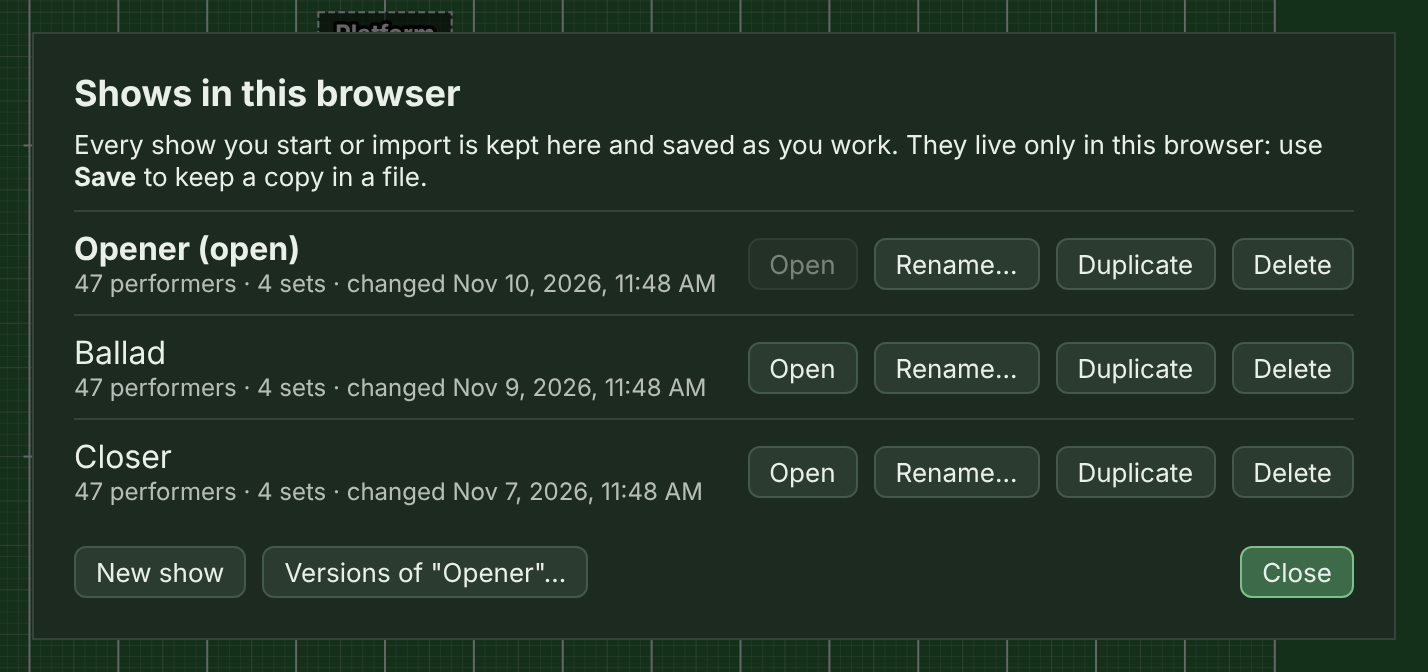
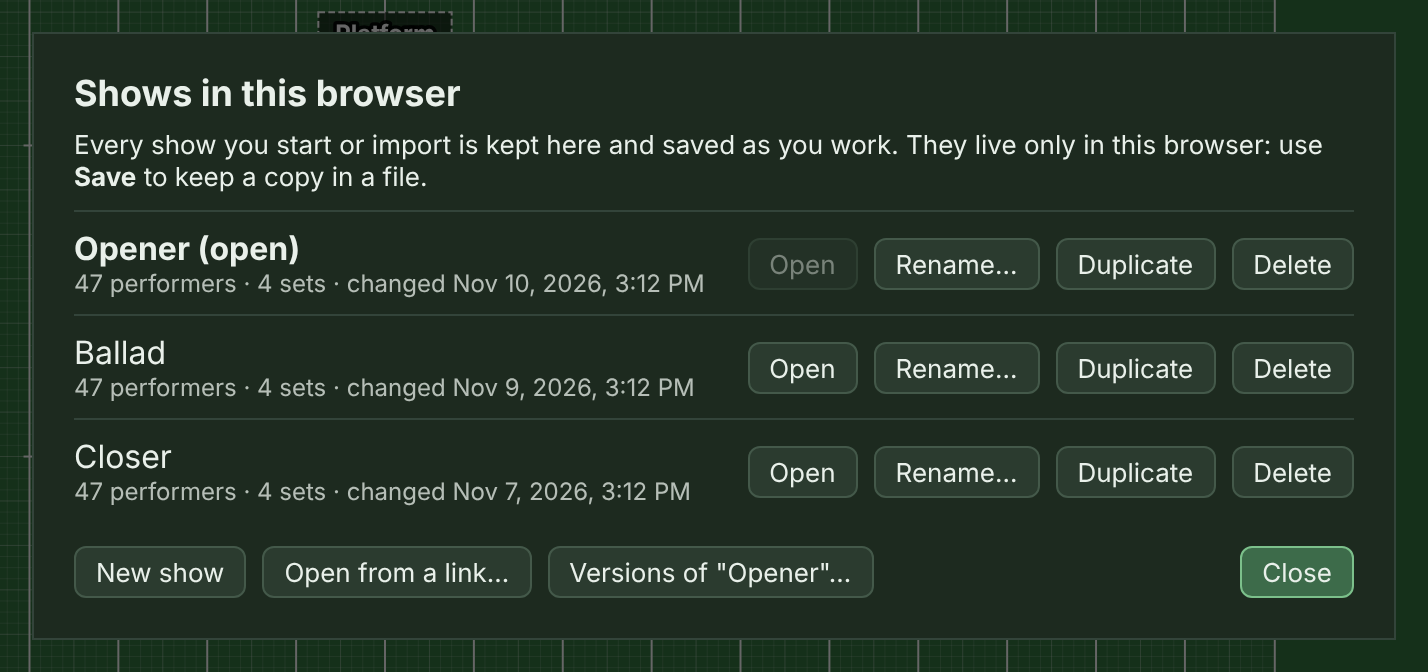
A new device keeps the same phone link: Full backup, a publishing code, and Open from a link
Claude-Session: https://claude.ai/code/session_012ak5ZVHEpD9G47FepvLhFK

diff --git a/src/perform/ShareDialog.tsx b/src/perform/ShareDialog.tsx
@@ -6,25 +6,14 @@ import { synced } from '../engine/music';
 import { getAudio } from '../ui/audioStore';
 import { useDialog } from '../ui/useDialog';
 import { checkRepo, fileNameFor, publishFile, REPO_RE, type GitHubTarget } from '../engine/github';
-import { cloudUrl, publishCloud, unpublishCloud, type CloudShow } from '../engine/cloud';
+import { cloudUrl, publishCloud, publishingCode, readPublishingCode, unpublishCloud, type CloudShow } from '../engine/cloud';
+import { getPublishing, loadCloud, loadLinks, saveCloud, saveLink, setPublishing } from '../ui/publishing';
 
 // The director's GitHub repository and token for one-click publishing, kept only in this browser.
 const GH = 'freeform:github';
 const loadGh = (): GitHubTarget | null => { try { const g = JSON.parse(localStorage.getItem(GH) ?? 'null'); return g && typeof g.token === 'string' && REPO_RE.test(g.repo) ? g : null; } catch { return null; } };
 const saveGh = (g: GitHubTarget | null) => { try { if (g) localStorage.setItem(GH, JSON.stringify(g)); else localStorage.removeItem(GH); } catch { /* not remembered */ } };
 
-// Shows published through FreeFORM's service, per show in this browser: the service's id and the edit token that lets
-// this browser update or remove it (the key is in the link, as for any hosted show).
-const CLOUD = 'freeform:cloud';
-const loadCloud = (): Record<string, CloudShow> => { try { return JSON.parse(localStorage.getItem(CLOUD) ?? '{}') ?? {}; } catch { return {}; } };
-const saveCloud = (id: string, c: CloudShow | null) => {
-  try { const all = loadCloud(); if (c) all[id] = { id: c.id, token: c.token }; else delete all[id]; localStorage.setItem(CLOUD, JSON.stringify(all)); } catch { /* not remembered */ }
-};
-
-// Hosted links are remembered per show in this browser: by its id, or by title for a show from before ids (and links saved before ids).
-const LINKS = 'freeform:hosted-links';
-const loadLinks = (): Record<string, string> => { try { return JSON.parse(localStorage.getItem(LINKS) ?? '{}') ?? {}; } catch { return {}; } };
-const saveLink = (id: string, link: string) => { try { localStorage.setItem(LINKS, JSON.stringify({ ...loadLinks(), [id]: link })); } catch { /* not remembered */ } };
 // The key of a locked file downloaded but not yet linked: kept from the moment it's made, so closing the dialog to upload
 // the file doesn't lose it (a lost key leaves the uploaded file unopenable).
 const KEYS = 'freeform:pending-keys';
@@ -115,12 +104,21 @@ export function ShareDialog({ show, onClose, setRevision }: { show: Show; onClos
         : `Published revision ${s.revision}, ${at}. Phones that already have the show get this version the next time they open it (within a minute or so).`);
     } catch (e) { setBusy(`✗ ${e instanceof Error ? e.message : String(e)}`); }
   };
+  // Moving to another device: the publishing code carries the link and the edit token (Full backup carries them too).
+  const [code, setCode] = useState('');
+  const takeCode = () => {
+    const p = readPublishingCode(code);
+    if (!p) { setBusy("✗ That isn't a FreeFORM publishing code. Copy the whole code from the other device."); return; }
+    if (p.show?.id && p.show.id !== show.id && !confirm(`This code is for "${p.show.title || 'another show'}", and the show open here is "${show.title}". Publishing here would replace that show on phones with this one. Use it anyway?`)) return;
+    setPublishing(sid, p); setCloud(p.cloud ?? null); setField(p.link); setMadeKey(null); saveKey(null); setCode('');
+    setBusy(p.cloud ? 'Done: this browser can now update that link. Click Publish update after your edits.' : 'Done: this browser has the link. To update it, publish the file where it was hosted before.');
+  };
   const stopSharing = async () => {
     if (!cloud || !confirm('Take this show off FreeFORM’s service? The link stops working. Phones that already have the show keep the copy they have, but get no more updates.')) return;
     setBusy('Taking it offline…');
     try {
       await unpublishCloud(cloud);
-      saveCloud(sid, null); setCloud(null); setField(''); setMadeKey(null); saveKey(null);
+      saveCloud(sid, null); saveLink(sid, null); setCloud(null); setField(''); setMadeKey(null); saveKey(null);
       setBusy('Taken offline. Publish again for a new link.');
     } catch (e) { setBusy(`✗ ${e instanceof Error ? e.message : String(e)}`); }
   };
@@ -198,6 +196,30 @@ export function ShareDialog({ show, onClose, setRevision }: { show: Show; onClos
               link</strong> (say, a student leaves the program), click <strong>Stop sharing</strong>, then publish again for a new link.
             </p>
           </>}
+          {onService && cloud && hosted && (
+            <details style={{ margin: '10px 0 0' }}>
+              <summary>Use on another device</summary>
+              <p style={small}>
+                Got a new computer or iPad? This code lets it keep updating this same link, so students don't need a new one. Copy it
+                (email it to yourself, say), then on the new device open this show from a Full backup or with <strong>Shows… → Open from a link</strong>, and
+                paste the code there. <strong>Keep it private:</strong> like the link, it's a password, and it can also change the show.
+                A <strong>Full backup</strong> file carries it too.
+              </p>
+              <textarea aria-label="Publishing code" readOnly rows={3} value={publishingCode(getPublishing(sid, show.title) ?? { link: hosted, cloud })} onFocus={(e) => e.currentTarget.select()}
+                style={{ width: '100%', boxSizing: 'border-box', font: 'inherit', fontSize: 11 }} />
+              <div style={{ display: 'flex', justifyContent: 'flex-end' }}><button onClick={() => copy(publishingCode(getPublishing(sid, show.title) ?? { link: hosted, cloud }))}>Copy publishing code</button></div>
+            </details>
+          )}
+          {!onService && (
+            <details style={{ margin: '10px 0 0' }}>
+              <summary>Published this show from another device?</summary>
+              <p style={small}>Paste the publishing code from that device (under <strong>Use on another device</strong> there), and this browser can update the same link.</p>
+              <div style={{ display: 'flex', gap: 6 }}>
+                <input aria-label="Paste a publishing code" placeholder="FREEFORM-PUBLISHING-1.…" value={code} onChange={(e) => setCode(e.target.value)} style={{ flex: 1, font: 'inherit', fontSize: 12 }} />
+                <button disabled={!code.trim()} onClick={takeCode}>Use code</button>
+              </div>
+            </details>
+          )}
           <details style={{ margin: '10px 0' }}>
             <summary>Other ways to host it</summary>
             <p style={small}>The same locked file, kept somewhere of your own instead of FreeFORM's service.</p>

diff --git a/src/App.tsx b/src/App.tsx
@@ -28,6 +28,9 @@ import { usePlayback } from './ui/usePlayback';
 import { clickWanted, setClickWanted, wakeClick } from './ui/click';
 import { VideoDialog } from './ui/VideoExport';
 import { FeedbackDialog } from './ui/Feedback';
+import { readPublishing, readPublishingCode, type Publishing } from './engine/cloud';
+import { getPublishing, setPublishing } from './ui/publishing';
+import { decodeShow, fetchHosted, linkHash, SHARE_PREFIX } from './engine/share';
 import { PrintDialog } from './print/Print';
 import { ShareDialog } from './perform/ShareDialog';
 import { PALETTE, useTheme } from './ui/palette';
@@ -740,14 +743,15 @@ export function App() {
    */
   const saveTo = async (inPlace: boolean, full = false): Promise<boolean> => {
     const name = `${show.title.replace(/[^\w\- ]+/g, '').trim() || 'show'}${full ? ' full backup' : ''}.freeform`;
-    let attached: { audio?: Attached; picture?: Attached } | undefined;
+    let attached: { audio?: Attached; picture?: Attached; publishing?: Publishing } | undefined;
     if (full) {
       const pack = async (id: string | undefined, kind: 'audio' | 'image', fallback: string) => {
         const b = id ? await getAudio(id) : undefined;
         return b ? { type: new RegExp(`^${kind}/[\\w.+-]{1,40}$`).test(b.type) ? b.type : fallback, data: await toBase64(b) } : undefined;
       };
       const audio = await pack(show.music?.audioId, 'audio', 'audio/mpeg'), picture = await pack(show.trace?.id, 'image', 'image/png');
-      attached = { ...(audio ? { audio } : {}), ...(picture ? { picture } : {}) };
+      const publishing = getPublishing(show.id ?? show.title, show.title); // so a new computer keeps updating the same link
+      attached = { ...(audio ? { audio } : {}), ...(picture ? { picture } : {}), ...(publishing ? { publishing } : {}) };
     }
     const blob = new Blob([JSON.stringify(attached ? { ...show, attached } : show, null, 2)], { type: 'application/octet-stream' }); // not JSON's type: Safari would add ".json"
     const file = new File([blob], name, { type: blob.type });
@@ -791,6 +795,8 @@ export function App() {
       const taken = !s.id || (await listShows()).some((x) => x.id === s.id);
       if (taken) s = { ...s, id: newShowId() };
       if ('audio' in r || 'picture' in r || taken) s = await ownFiles(s, r.audio && fromAttached(r.audio), r.picture && fromAttached(r.picture));
+      const pub = 'publishing' in r ? readPublishing(r.publishing) : null;
+      if (pub && s.id && !getPublishing(s.id)) setPublishing(s.id, pub); // a Full backup from another computer: keep publishing to the same link
       openShow(s, true); setFileError(''); // what's open is the file itself
     } catch (err) {
       setFileError(err instanceof Error ? err.message : String(err));
@@ -814,6 +820,23 @@ export function App() {
     flush,
     fresh: () => fresh().then(() => setLibrary(false)),
     open: async (id) => { const s = await loadShow(id); await flush(); openShow(s); setLibrary(false); },
+    // Open a show from a phone link or a publishing code: recovers the drill (the link holds the key that unlocks it), and
+    // with a publishing code, keeps updating the same link from here.
+    openLink: async (text) => {
+      const code = readPublishingCode(text), hash = code ? code.link.slice(code.link.indexOf('#')) : linkHash(text);
+      if (!hash) throw new Error("That isn't a FreeFORM link or publishing code. Paste the whole link students open, or the publishing code.");
+      const got = hash.startsWith(SHARE_PREFIX) ? { show: await decodeShow(hash.slice(SHARE_PREFIX.length)), audio: undefined } : await fetchHosted(hash);
+      let s = got.show;
+      await flush();
+      if (!s.id || (await listShows()).some((x) => x.id === s.id)) s = { ...s, id: newShowId() }; // already here: a copy beside it
+      s = await ownFiles(s, got.audio);
+      if (code) setPublishing(s.id!, code);
+      else if (!hash.startsWith(SHARE_PREFIX)) setPublishing(s.id!, { link: location.origin + location.pathname + hash }); // the link, without the token to update it
+      openShow(s); setLibrary(false);
+      setNotice({ t: 0, text: code ? `Opened "${s.title}". This browser can keep updating the same link: Share…, then Publish update.`
+        : hash.startsWith(SHARE_PREFIX) ? `Opened "${s.title}" from a share link. Performers' names aren't in share links, so add them again in Roster.`
+        : `Opened "${s.title}". To keep updating the same link from here, paste the publishing code from the device that published it (Share…, Keep phones up to date). Publishing without it makes a new link.` }); // over the field, where the show just opened
+    },
     rename: async (id, title) => {
       if (id === show.id) { setShow((s) => ({ ...s, title })); await keepShow({ ...show, title }); }
       else await keepShow({ ...(await loadShow(id)), title });

diff --git a/src/ui/Shows.tsx b/src/ui/Shows.tsx
@@ -7,6 +7,7 @@ import { listShows, listVersions, type Entry, type Listed } from './showStore';
 /** What the dialog asks the editor to do; each returns once it's done, so the list can be read again. */
 export interface ShowActions {
   open: (id: string) => Promise<void>;
+  openLink: (text: string) => Promise<void>; // a phone link or a publishing code
   fresh: () => Promise<void>;
   rename: (id: string, title: string) => Promise<void>;
   duplicate: (id: string) => Promise<void>;
@@ -24,6 +25,7 @@ export function ShowsDialog({ show, act, onClose }: { show: Show; act: ShowActio
   const [shows, setShows] = useState<Listed[] | null>(null);
   const [versions, setVersions] = useState<Entry[] | null>(null); // the versions view, when open
   const [error, setError] = useState('');
+  const [link, setLink] = useState<string | null>(null); // Open from a link: the box's text, while it's open
   const list = () => listShows().then(setShows, () => { setShows([]); setError("This browser wouldn't read its saved shows (its storage may be turned off)."); });
   // The open show goes into the library first, so the list is current. Only here: right after an action the editor may not have caught up.
   useEffect(() => { act.flush().then(list); }, [show.id]); // eslint-disable-line react-hooks/exhaustive-deps
@@ -54,8 +56,20 @@ export function ShowsDialog({ show, act, onClose }: { show: Show; act: ShowActio
               </div>
             );
           })}
+          {link !== null && (
+            <div style={{ ...rowStyle, flexWrap: 'wrap' }}>
+              <p style={{ margin: 0, fontSize: 13, width: '100%' }}>
+                Paste a link students open (a share link or a <strong>Keep phones up to date</strong> link), or a publishing code from another device.
+                The show opens here as a show of its own. With a publishing code, this browser can keep updating the same link.
+              </p>
+              <input aria-label="Link or publishing code" autoFocus value={link} onChange={(e) => setLink(e.target.value)} placeholder="https://freeformdrill.org/app/#load=… or FREEFORM-PUBLISHING-1.…" style={{ flex: 1, minWidth: 200 }} />
+              <button className="primary" disabled={!link.trim()} onClick={() => { setError(''); act.openLink(link).catch((e) => setError(e instanceof Error ? e.message : String(e))); }}>Open</button>
+              <button onClick={() => setLink(null)}>Cancel</button>
+            </div>
+          )}
           <div style={{ display: 'flex', gap: 8, marginTop: 12, flexWrap: 'wrap' }}>
             <button onClick={doing(act.fresh)}>New show</button>
+            <button onClick={() => setLink('')} title="Open a show from a link students use, or from a publishing code (a new computer)">Open from a link…</button>
             <button onClick={showVersions} title="Earlier copies of the open show, kept as you work">Versions of "{show.title || 'Untitled show'}"…</button>
             <span style={{ flex: 1 }} />
             <button className="primary" onClick={onClose}>Close</button>

diff --git a/src/engine/cloud.ts b/src/engine/cloud.ts
@@ -39,3 +39,36 @@ export async function unpublishCloud(c: CloudShow, fetcher: typeof fetch = fetch
   const r = await call(`/shows/${c.id}`, { method: 'DELETE', headers: { Authorization: `Bearer ${c.token}` } }, fetcher);
   if (!r.ok && r.status !== 404) throw new Error(await why(r));
 }
+
+/**
+ * Everything a browser needs to keep publishing a show to the same link: the link (with its key) and, for a show on
+ * FreeFORM's service, its id and edit token. Carried by Full backup files and by a publishing code, so a director who
+ * moves to a new computer mid-season keeps the link students already have. Like the link, it's a password.
+ */
+export interface Publishing { link: string; cloud?: CloudShow; show?: { id?: string; title?: string } }
+
+const PREFIX = 'FREEFORM-PUBLISHING-1.';
+const ID_RE = /^[A-Za-z0-9_-]{22}$/, TOKEN_RE = /^[A-Za-z0-9_-]{43}$/;
+const b64url = (t: string) => { let bin = ''; for (const b of new TextEncoder().encode(t)) bin += String.fromCharCode(b); return btoa(bin).replace(/\+/g, '-').replace(/\//g, '_').replace(/=+$/, ''); };
+const unb64url = (t: string) => new TextDecoder().decode(Uint8Array.from(atob(t.replace(/-/g, '+').replace(/_/g, '/')), (c) => c.charCodeAt(0)));
+
+/** Checked publishing info from a file or code (they come from outside), or null. The link must be a hosted (#load=) link with a key. */
+export function readPublishing(x: unknown): Publishing | null {
+  const p = x as Publishing;
+  if (!p || typeof p !== 'object' || typeof p.link !== 'string' || p.link.length > 2000 || !/^(https:\/\/[^\s#]+|http:\/\/localhost(:\d+)?\/[^\s#]*)#load=[^\s&]+&key=[A-Za-z0-9_-]{43}$/.test(p.link)) return null; // the app's address (localhost while developing)
+  const cloud = p.cloud && typeof p.cloud === 'object' && ID_RE.test(p.cloud.id) && TOKEN_RE.test(p.cloud.token) ? { id: p.cloud.id, token: p.cloud.token } : undefined;
+  if (p.cloud !== undefined && !cloud) return null;
+  if (cloud && !p.link.includes(encodeURIComponent(cloudUrl(cloud.id)))) return null; // the token must belong to the link's show
+  const show = p.show && typeof p.show === 'object' ? { id: typeof p.show.id === 'string' ? p.show.id.slice(0, 64) : undefined, title: typeof p.show.title === 'string' ? p.show.title.slice(0, 200) : undefined } : undefined;
+  return { link: p.link, ...(cloud ? { cloud } : {}), ...(show ? { show } : {}) };
+}
+
+/** The publishing code to copy to another device. */
+export const publishingCode = (p: Publishing) => PREFIX + b64url(JSON.stringify(p));
+
+/** A pasted publishing code (spaces and line breaks from an email are fine), or null if it isn't one. */
+export function readPublishingCode(text: string): Publishing | null {
+  const m = text.replace(/\s+/g, '').match(/FREEFORM-PUBLISHING-1\.([A-Za-z0-9_-]+)/);
+  if (!m) return null;
+  try { return readPublishing(JSON.parse(unb64url(m[1]))); } catch { return null; }
+}

diff --git a/src/engine/show.ts b/src/engine/show.ts
@@ -912,7 +912,7 @@ const B64_RE = /^[A-Za-z0-9+/]*={0,2}$/;
  * A show file, and the recording and tracing picture a full backup carries ("attached": base64, see Attached).
  * The attachments are checked (type, size, base64) and taken off the show, so they never reach the autosave.
  */
-export function parseShowFile(text: string): { show: Show; audio?: Attached; picture?: Attached } {
+export function parseShowFile(text: string): { show: Show; audio?: Attached; picture?: Attached; publishing?: unknown } {
   const s = JSON.parse(text);
   const att = s?.attached;
   if (s && typeof s === 'object') delete s.attached;
@@ -923,9 +923,11 @@ export function parseShowFile(text: string): { show: Show; audio?: Attached; pic
     return typeof x?.type === 'string' && ATTACHED_TYPE[kind].test(x.type) && typeof x.data === 'string' && x.data.length % 4 === 0
       && x.data.length <= Math.ceil(max / 3) * 4 && B64_RE.test(x.data);
   };
+  // Publishing (Full backup): the hosted link and edit token, checked where it's used (readPublishing); here only kept small.
+  const publishing = att && typeof att === 'object' && att.publishing && typeof att.publishing === 'object' && JSON.stringify(att.publishing).length < 4000 ? att.publishing : undefined;
   if (typeof att !== 'object' || !att || (att.audio !== undefined && !(show.music && ok(att.audio, 'audio', MAX_ATTACHED_AUDIO)))
     || (att.picture !== undefined && !(show.trace && ok(att.picture, 'picture', MAX_ATTACHED_PICTURE)))) throw new Error('Not a valid FreeFORM show: attached recording or picture');
-  return { show, ...(att.audio ? { audio: att.audio } : {}), ...(att.picture ? { picture: att.picture } : {}) };
+  return { show, ...(att.audio ? { audio: att.audio } : {}), ...(att.picture ? { picture: att.picture } : {}), ...(publishing ? { publishing } : {}) };
 }
 
 function checkShow(s: any): Show { // eslint-disable-line @typescript-eslint/no-explicit-any

diff --git a/src/ui/Sidebar.tsx b/src/ui/Sidebar.tsx
@@ -2,6 +2,7 @@ import { clearStartingSections, hasOwnStartingSections, saveStartingSections } f
 import { coarse } from '../perform/device';
 import { PREVIEW } from '../perform/Perform';
 import { Fragment, useEffect, useRef, useState } from 'react';
+import { getPublishing } from './publishing';
 import { RosterImport } from './RosterImport';
 import { deleteAudio, putAudio } from './audioStore';
 import { IconGrip } from './icons';
@@ -88,7 +89,7 @@ export function Sidebar(p: Props) {
         <button onClick={p.onOpen} title="Open a .freeform show file (or an older .freeform.json) or a Pyware 3D .3dj drill as a new show (this one stays under Shows…)">Import…</button>
         <button onClick={p.onSave} title="Save this show as a .freeform file (⌘S): the first time you choose where, then it saves to that same file">Save</button>
         <button onClick={p.onSaveAs} title="Save a copy as a new .freeform file, choosing the folder and name">Save As…</button>
-        <button onClick={p.onFullBackup} disabled={!show.music && !show.trace} title="Save a .freeform file that also holds the recording and tracing picture, to move the show to another computer complete (a much bigger file)">Full backup…</button>
+        <button onClick={p.onFullBackup} disabled={!show.music && !show.trace && !getPublishing(show.id ?? show.title, show.title)} title="Save a .freeform file that also holds the recording, the tracing picture, and the show's publishing (so a new computer keeps updating the same phone link), to move the show to another computer complete">Full backup…</button>
       </div>
       {/* Getting the drill to the band is the payoff, so it gets its own row, apart from the file buttons. */}
       <div role="group" aria-label="Get it to the band" style={{ ...row, flexWrap: 'nowrap' }}>

diff --git a/src/ui/publishing.ts b/src/ui/publishing.ts
@@ -1,0 +1,27 @@
+// Where this browser keeps each show's publishing: its hosted link (with the key) and, for a show on FreeFORM's service,
+// the id and edit token. Shared by the Share dialog, Full backup, and Open from a link.
+import type { CloudShow, Publishing } from '../engine/cloud';
+
+const LINKS = 'freeform:hosted-links'; // per show id (or title, for a show from before ids)
+const CLOUD = 'freeform:cloud';
+const read = <T,>(k: string): Record<string, T> => { try { return JSON.parse(localStorage.getItem(k) ?? '{}') ?? {}; } catch { return {}; } };
+const write = (k: string, v: Record<string, unknown>) => { try { localStorage.setItem(k, JSON.stringify(v)); } catch { /* not remembered */ } };
+
+export const loadLinks = () => read<string>(LINKS);
+export const saveLink = (id: string, link: string | null) => { const all = loadLinks(); if (link) all[id] = link; else delete all[id]; write(LINKS, all); };
+export const loadCloud = () => read<CloudShow>(CLOUD);
+export const saveCloud = (id: string, c: CloudShow | null) => { const all = loadCloud(); if (c) all[id] = { id: c.id, token: c.token }; else delete all[id]; write(CLOUD, all); };
+
+/** This show's publishing, to carry to another device, or null if it hasn't been published from here. */
+export function getPublishing(sid: string, title?: string): Publishing | null {
+  const link = loadLinks()[sid] ?? (title ? loadLinks()[title] : undefined);
+  if (!link) return null;
+  const cloud = loadCloud()[sid];
+  return { link, ...(cloud ? { cloud } : {}), show: { id: sid, title } };
+}
+
+/** Take on publishing brought from another device (a Full backup or a publishing code). */
+export function setPublishing(sid: string, p: Publishing) {
+  saveLink(sid, p.link);
+  saveCloud(sid, p.cloud ?? null);
+}

diff --git a/src/engine/cloud.test.ts b/src/engine/cloud.test.ts
@@ -47,3 +47,22 @@ describe('publishing through FreeFORM’s service', () => {
     await expect(publishCloud('v', null, offline)).rejects.toThrow("Couldn't reach FreeFORM's service");
   });
 });
+
+describe('moving publishing to another device', async () => {
+  const { publishingCode, readPublishingCode, readPublishing } = await import('./cloud');
+  const id = 'KFyp3kS7Vc6xYFo0dDPrGw', token = 'ju86AYRqJQaALlfmnqkRCIjpvXiY6wRRvO8ui9dzGiQ', key = 'a9JS5tRnpADy2UmXXXXXXXXXXXXXXXXXXXXXXXXXXXX';
+  const link = `https://freeformdrill.org/app/#load=${encodeURIComponent(cloudUrl(id))}&key=${key}`;
+  it('round-trips a publishing code, even wrapped by an email program', () => {
+    const p = { link, cloud: { id, token }, show: { id: 'abc', title: 'Ballad' } };
+    const code = publishingCode(p);
+    expect(code.startsWith('FREEFORM-PUBLISHING-1.')).toBe(true);
+    expect(readPublishingCode(`Here it is:\n${code.slice(0, 40)}\n${code.slice(40)}  `)).toEqual(p);
+  });
+  it('turns away anything that isn’t one, or a token for a different show', () => {
+    expect(readPublishingCode('hello')).toBeNull();
+    expect(readPublishingCode('FREEFORM-PUBLISHING-1.not-json')).toBeNull();
+    expect(readPublishing({ link: 'https://evil.example/', cloud: { id, token } })).toBeNull();
+    expect(readPublishing({ link, cloud: { id: 'BBBBBBBBBBBBBBBBBBBBBB', token } })).toBeNull(); // the token is for another show
+    expect(readPublishing({ link })).toEqual({ link }); // a link on GitHub or self-hosted: no token to carry
+  });
+});

diff --git a/docs/HOW-TO.md b/docs/HOW-TO.md
@@ -431,6 +431,13 @@ Click **Share…** in the sidebar. The dialog has two choices at the top, and ea
 
 FreeFORM's service keeps published shows for free. A show nobody has opened or updated for a year is deleted automatically. **Stop sharing** takes a show off right away.
 
+**A new computer or iPad mid-season.** Only the browser that published a show can update it: the link alone can't, or any student could change the drill. To keep updating the same link from a new device, bring the show's publishing with you, either way:
+
+- **Full backup…** carries it (along with the recording and tracing picture). **Import…** the file on the new device, and **Publish update** keeps the same link.
+- **Use on another device**, under the link in the Share dialog, shows a **publishing code**. Copy it (email it to yourself), then on the new device open the show with **Shows… → Open from a link…** and paste the code, or paste it under **Published this show from another device?** in the Share dialog. **Keep the code private:** like the link, it's a password, and it can also change the show.
+
+If the old device is gone and you have no file, the drill isn't lost: paste the link students use into **Shows… → Open from a link…**, and the whole show comes back, names and music included. (The link holds the key that unlocks it.) Without the publishing code, though, publishing from there makes a new link.
+
 **Other ways to host it**, at the bottom of the dialog, are for directors who'd rather keep the file themselves. It's the same locked file either way:
 
 - **Publish to your own GitHub repository** in one click, once you connect FreeFORM to a public repository of your own. (Public is fine, since the file is encrypted.) You'll need the repository's name and a fine-grained GitHub token that can write only to that repository (*Contents: Read and write*). Both stay in your browser.
@@ -493,7 +500,7 @@ With a keyboard attached, the [keyboard shortcuts](#keyboard-shortcuts) work too
 ## Saving, backing up, and opening files
 
 - **Autosave**: every change is saved in your browser right away.
-- **Several shows: Opener, Ballad, Closer.** Every show you start, import, or open from the sample is kept in this browser. **Shows…** (first of the sidebar's file buttons) lists them, newest change first. **Open** switches to one (the show you had open is saved first). **Rename…** changes a show's title, **Duplicate** makes a copy to try something new (with its own copy of the recording and tracing picture), and **Delete** removes a show from this browser after asking. Delete can't be undone, so save a file first if you might want the show again. **New show** starts a blank one. Each show keeps its own recording and tracing picture. Undo works within one show: opening another starts its Undo fresh.
+- **Several shows: Opener, Ballad, Closer.** Every show you start, import, or open from the sample is kept in this browser. **Shows…** (first of the sidebar's file buttons) lists them, newest change first. **Open** switches to one (the show you had open is saved first). **Open from a link…** brings in a show from a link students use, or from a publishing code (see [Send the show to your performers](#send-the-show-to-your-performers)). **Rename…** changes a show's title, **Duplicate** makes a copy to try something new (with its own copy of the recording and tracing picture), and **Delete** removes a show from this browser after asking. Delete can't be undone, so save a file first if you might want the show again. **New show** starts a blank one. Each show keeps its own recording and tracing picture. Undo works within one show: opening another starts its Undo fresh.
 
   ![The Shows list with three shows](img/shows.png)
 - **Earlier versions.** While you work, FreeFORM keeps a copy of each show at most every 10 minutes: the last 20, plus the last one of each day for 60 days. In **Shows…**, click **Versions of "…"** to see the open show's versions, with when each was kept and how many performers and sets it had. **Restore** puts one in the editor. Undo takes it back, and the show as it was is kept as a version too, so nothing is lost.
@@ -508,7 +515,7 @@ With a keyboard attached, the [keyboard shortcuts](#keyboard-shortcuts) work too
   **⌘S** (Ctrl+S on Windows) is the same as **Save**, even while you're typing in a box. FreeFORM forgets the file when you open or start another show, or close the page; the next Save asks again.
 
   If a show has changes you haven't saved to a file for a week, a note over the field reminds you, with a **Save** button (and **Full backup…** if the show has a recording or a tracing picture). **Later** asks again tomorrow.
-- **Full backup…** (next to **Save As…**) saves a `.freeform` file that also holds the show's recording and tracing picture, so the show moves to another computer complete. It's much bigger than an ordinary save (a 4-minute mp3 adds about 8 MB), so keep using **Save** for everyday backups. It always asks where to save, and ⌘S never writes over it. **Import…** on the other computer brings the show in with its recording and picture. Share links never carry the recording.
+- **Full backup…** (next to **Save As…**) saves a `.freeform` file that also holds the show's recording and tracing picture, and its publishing if you published it to phones from here, so the show moves to another computer complete and keeps updating the same phone link. Keep a full backup private, since it can change the published show. It's much bigger than an ordinary save (a 4-minute mp3 adds about 8 MB), so keep using **Save** for everyday backups. It always asks where to save, and ⌘S never writes over it. **Import…** on the other computer brings the show in with its recording and picture. Share links never carry the recording.
 - **If the autosave fails.** If the browser refuses to save (its storage is full, or it's a private window), a note over the field says so, with **Save now**. Until it's fixed, your work is only in that open tab and any file you save.
 - **Import…** opens a `.freeform` file (older `.freeform.json` files too) as a new show; the one you had open stays under **Shows…**. A file of a show that's already in this browser comes in as a copy beside it, never over it. A file from before November 7, 2026 with facings or guard equipment set opens with them as performer notes on the same set ("Face Side 2," "Flag").
 - **Pyware 3D files (`.3dj`)**: Import… also opens these. You get the sets with their counts and names, measures and notes, sections from Pyware's symbols, label positions, and the roster names. Moves that aren't straight in Pyware (follow-the-leader, rotations, delayed step-offs) come in count by count, with even steps. If a follow-the-leader was only described in the set's note, Pyware saved it as straight lines that run through each other; FreeFORM rebuilds it as a follow-the-leader group when the two sets fit one exactly, and you can change its leader or turns with **FTL ▾**. Check which end leads: when the file could have turned at either end, FreeFORM picks the leader nearest the front. Drawn markup and the 3D figures don't come over.
@@ -544,7 +551,7 @@ Arrows move the selection the way it looks on screen: ↑ is toward the back sid
 
 ## If something goes wrong
 
-**My show is gone.** First look in **Shows…**: another show may be open. Make sure you're in the same browser on the same computer you used before. The autosave doesn't follow you to other browsers or devices. If you saved the show to a file, use **Import…** to open it.
+**My show is gone.** First look in **Shows…**: another show may be open. Make sure you're in the same browser on the same computer you used before. The autosave doesn't follow you to other browsers or devices. If you saved the show to a file, use **Import…** to open it. If you published it to phones, **Shows… → Open from a link…** brings it back from the link students use.
 
 **I made a mistake.** Undo (⌘Z or Ctrl+Z) works for every edit, including deleting performers. For something older than Undo reaches, try **Shows…**, then **Versions of "…"**.
 

diff --git a/PLAN.md b/PLAN.md
@@ -94,7 +94,7 @@ Claude went through the docs, ran the tests, and clicked through the editor and 
 
 ### Dot sheets and sharing
 - ✅ Dot sheets with a small field picture for each set (**1 per page, with a small field picture for each set**): the whole field, everyone faint, the performer as a big black dot; 12 sets a page.
-- ✅ **Publish to phones** through FreeFORM's own service (2026-11-10): one click in Share, no account or GitHub token. The show is encrypted in the browser and the key is only in the link, and the dialog, the guide, and the front page all say so plainly (Jason). Stored in Workers KV (Jason chose it over R2: no card needed; 1 GB in all, 24 MB a show), with the guardrails Jason wanted: only locked show files (checked by shape), size and per-minute limits, an edit token per show, **Stop sharing**, and a daily cleanup of shows unused for a year. GitHub and self-hosting are still there under **Other ways to host it**. Follow-ups: move to R2 if FreeFORM outgrows 1 GB (a small change); the edit token lives in one browser, so publishing from a second computer makes a new link (carry it in Full backup?).
+- ✅ **Publish to phones** through FreeFORM's own service (2026-11-10): one click in Share, no account or GitHub token. The show is encrypted in the browser and the key is only in the link, and the dialog, the guide, and the front page all say so plainly (Jason). Stored in Workers KV (Jason chose it over R2: no card needed; 1 GB in all, 24 MB a show), with the guardrails Jason wanted: only locked show files (checked by shape), size and per-minute limits, an edit token per show, **Stop sharing**, and a daily cleanup of shows unused for a year. GitHub and self-hosting are still there under **Other ways to host it**. A new device mid-season keeps the same link (Jason asked): Full backup carries the show's publishing, a publishing code moves it by hand, and **Shows… → Open from a link…** recovers a whole show from the link students use (or a code). Follow-up: move to R2 if FreeFORM outgrows 1 GB (a small change).
 - ✅ Video export (2026-11-10, Jason's choices): **Video…** makes an MP4 of the whole field from the press box, with the music when the show has it, the title, the piece, the set, and the count across the top, for any range of sets; made in the browser, faster than real time, with a progress bar. Follow-ups: check the sound on Jason's Mac (AAC there, Opus where the browser can't do AAC); one performer's view as an option.
 - Pyware import for current files. Tested on 2008 to 2010 files only; needs newer sample files from Jason.
 - Spanish (Jason, 2026-11-10: yes, in this order). ✅ Phase 1: the phone's performer view (coordinates, step words, every label) and the front page (freeformdrill.org/es/), following the device's language with an **Español** / **English** switch; strings looked up by their English text in `src/i18n/es.ts`, and a test checks every one has its Spanish. Phase 2: the editor (hundreds of strings). Phase 3: the how-to guide (and its screenshots?). Wordmarks stay as they are: FreeFORM Drill is a name, and the tagline stays English. Needs: a Spanish-speaking director to check the drill terms (asked for on the Spanish front page).

diff --git a/DECISIONS.md b/DECISIONS.md
@@ -1464,3 +1464,9 @@ Each entry: timestamp, who decided, context, options considered, decision.
 - **Context:** Keeping phones up to date needed a GitHub account, a repository, and a token: the biggest barrier for other directors.
 - **Other options:** R2 (needs a card, 10 GB free); GitHub only; accounts.
 - **Decision:** **Publish to phones** in the Share dialog uploads the locked file (encrypted in the browser, as before) to `api.freeformdrill.org/shows`, and the link points there; **Publish update** replaces it at the same address. The service stores the file in Workers KV with the hash of an edit token that only the publishing browser has; phones download it from anywhere (CORS open; it's unreadable without the key). Guardrails: only freeformdrill.org may publish, only files shaped like a locked FreeFORM show, 24 MB at most (KV's limit is 25 MB), 6 publishes a minute per visitor, and a daily job that deletes shows nobody has opened or updated for a year (opens are noted at most once a day, since KV's free plan allows 1,000 writes a day). **Stop sharing** removes a show at once; a phone that opens a removed show's link is told it isn't online anymore (in Spanish too). The encryption is explained in a box at the top of the Keep phones up to date tab, in the guide, and in the front page's privacy section: the key is only in the link (after the #, never sent to a server), no one can read the file without it (FreeFORM included), so the link is the password, and a lost link can't be recovered. GitHub publishing and self-hosting moved under **Other ways to host it**. If the 1 GB fills up, moving to R2 is a small change in the service.
+
+## 2026-11-10 15:40 EST — A new device keeps the same phone link
+- **Who:** Jason asked what happens when a director gets a new device mid-season; Claude proposed three fixes and Jason approved them (details are Claude's; *Jason can veto*).
+- **Context:** Only the browser that published a show holds its edit token, so a new device could only publish a new link, and every student would need it.
+- **Other options:** let the link update the show (any student could overwrite the drill: no); accounts.
+- **Decision:** (1) **Full backup** carries the show's publishing (the link with its key, and the service's id and edit token), and **Import…** restores it, so Publish update keeps the same link; a plain **Save** file doesn't, so a show file passed to a co-writer can't overwrite the band's copy. (2) A **publishing code** (`FREEFORM-PUBLISHING-1.` and the same information, checked on the way in) under **Use on another device** in the Share dialog, pasted on the new device in **Shows… → Open from a link…** or in Share; pasting one for a different show asks first, since publishing would replace that show on phones. (3) **Open from a link…** also takes the link students use and brings back the whole show (the link holds the key; names and music included), for a director with no file at all; without the code, publishing from there makes a new link, and FreeFORM says so. The code and full backups are labeled as passwords.

diff --git a/README.md b/README.md
@@ -55,7 +55,7 @@ A note on where the ideas came from: FreeFORM is modeled on Pyware and the Ultim
 - Dot sheets (four cards per page, one per page with a notes column, or one per page with a small field picture for each set, like a dot book) and drill charts (one per set, with or without the paths into it), printed or saved as PDF, for the whole show or a range of sets.
 - A video of the show (MP4, the whole field, with the music and the set and count on screen) for the group chat, staff, or boosters.
 - A Share dialog with two choices: **Send this version** (a link with a QR code; the whole show is in the link, with no server involved) or **Keep phones up to date**. Each says what's included (names, notes, music) before you get a link.
-- **Publish to phones**: one click, no account. The show is encrypted in your browser, and the key is only in the link, so the copy online can't be read without it. The link updates itself on phones, can carry the music, and keeps names private. (Or publish to your own GitHub repository, or host the file anywhere.) Each publish gets a revision number that shows on phones and printed sheets.
+- **Publish to phones**: one click, no account. The show is encrypted in your browser, and the key is only in the link, so the copy online can't be read without it. The link updates itself on phones, can carry the music, and keeps names private. A new computer mid-season keeps the same link (Full backup, or a publishing code), and a lost show comes back from the link itself. (Or publish to your own GitHub repository, or host the file anywhere.) Each publish gets a revision number that shows on phones and printed sheets.
 - The phone's performer view and the front page in Spanish (a first draft; the editor is next).
 - A performer view for phones: pick who you are, follow your dot, and see your spot now, your next spot, and the counts to get there, with the step size in plain words ("normal steps, moving back and to your left"). A phone keeps several shows (the Opener, Ballad, and Closer as separate files) and switches between them from a menu. Students can loop a range of sets to practice, with a 4-count count-in if they like. It works offline once it's opened, and it says so plainly if the phone can't save it.
 
